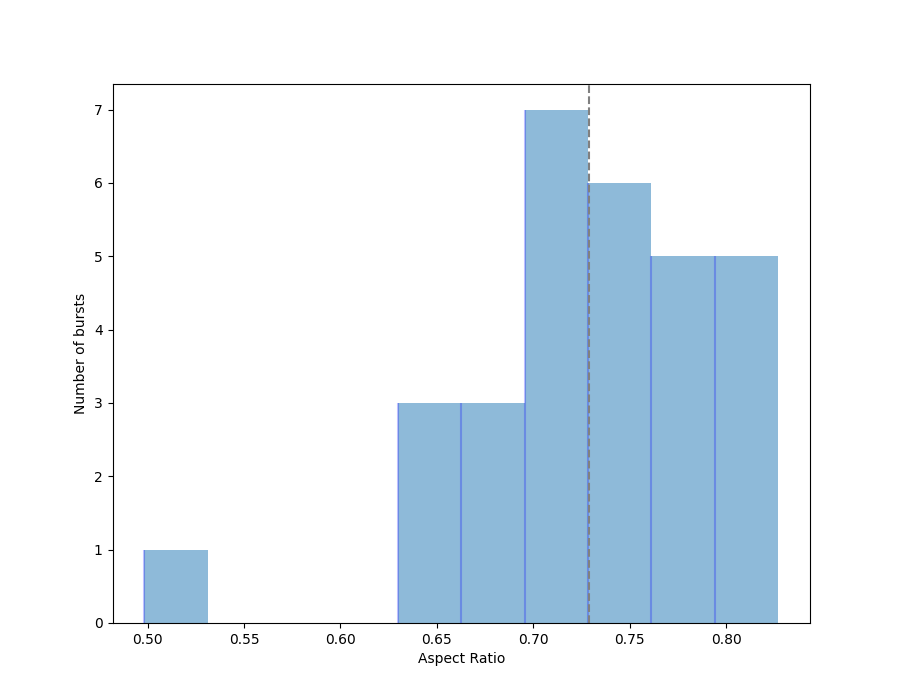
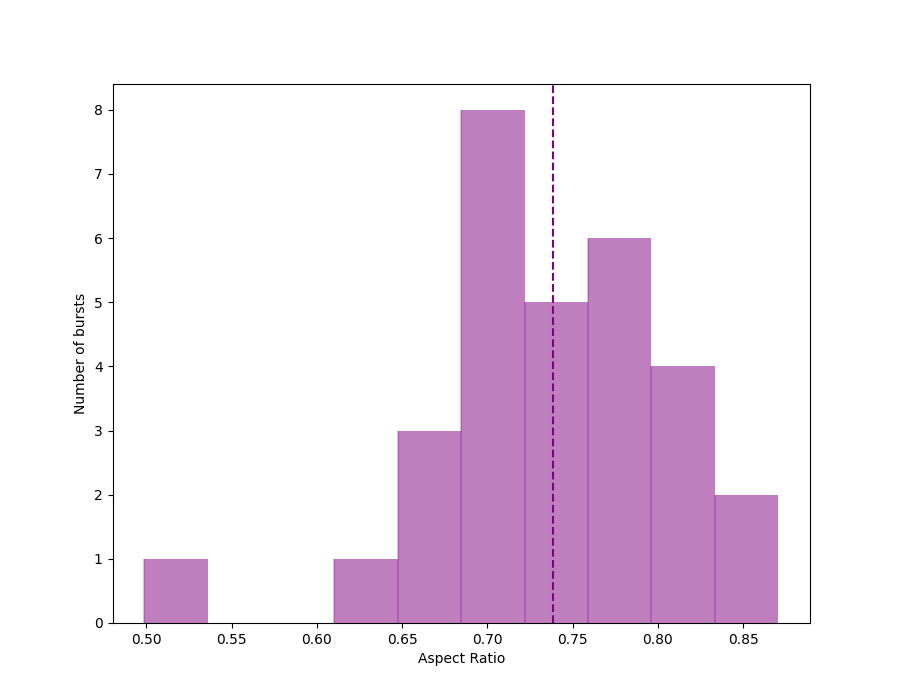
more useful discussion in wc3

diff --git a/5/observations_vs_theory.tex b/5/observations_vs_theory.tex
@@ -2,7 +2,7 @@
 \doublespacing
 \chapter{The intrinsic sizes of Type III radio bursts and comparison to recent simulations.}
 \label{chap:observations_vs_theory}
-Recent developments in the modelling of radio waves in a turbulent corona have made predictions about source sizes that have not yet been qualitatively compared to interferometric observations. Scattering of radio waves off of density inhomogeneities in the solar corona is considered to be the dominant cause of the size and shape of radio bursts. By understanding scattering, the turbulent nature of processes that generate density inhomogeneities can be studied. Turbulence in the corona can give insight into how energy is transferred from large scale phenomena down to the microscales resulting in the million degree Kelvin temperatures that have puzzled solar physicists for decades. New models of radio wave scattering, therefore, are the first step to solving fundamental physical problems in the solar corona. However, unless the models agree with observations, their use is limited at best and as such, comparisons between models and observations are crucial. In this chapter I utilise the direct visibility fitting method described in Chapter \ref{chap:measuring_source_sizes} and apply it to 30 Type III radio bursts. It is found that these bursts have a mean size along the major and minor axis of FWHM\textsubscript{x} = 16.35 arcmin and FWHM\textsubscript{y} = 11.86 arcmin respectively. No trend of source size with respect to helioprojective angle is found, which is in direct contrast to predictions from modelling if the intrinsic size of a burst is a point source and the degree of anisotropy is high $\alpha \sim 0.3$. This study suggests that although many are in agreement, further exploration of the parameters of scattering simulations are necessary before they can be used to predict the nature of coronal density inhomogeneities.
+Recent developments in the modelling of radio waves in a turbulent corona have made predictions about source sizes that have not yet been qualitatively compared to interferometric observations. Scattering of radio waves off of density inhomogeneities in the solar corona is considered to be the dominant cause of the size and shape of radio bursts. By understanding scattering, the turbulent nature of processes that generate density inhomogeneities can be studied. Turbulence in the corona can give insight into how energy is transferred from large scale phenomena down to the microscales resulting in the million degree Kelvin temperatures that have puzzled solar physicists for decades. New models of radio wave scattering, therefore, are the first step to solving fundamental physical problems in the solar corona. However, unless the models agree with observations, their use is limited at best and as such, comparisons between models and observations are crucial. In this chapter I utilise the direct visibility fitting method described in Chapter \ref{chap:measuring_source_sizes} and apply it to 30 Type III radio bursts. It is found that these bursts have a mean size along the major and minor axis of FWHM\textsubscript{x} = 16.27 arcmin and FWHM\textsubscript{y} = 11.96 arcmin respectively. No trend of source size with respect to helioprojective angle is found, which is in direct contrast to predictions from modelling if the intrinsic size of a burst is a point source and the degree of anisotropy is high $\alpha \sim 0.3$. This study suggests that although many are in agreement, further exploration of the parameters of scattering simulations are necessary before they can be used to predict the nature of coronal density inhomogeneities.
 
 \section{Introduction}
 \label{sec:obsvtheory_intro}
@@ -21,7 +21,7 @@ During the period 04 April 2019 to 14 April 2019 a Type III radio noise storm oc
 \begin{figure}[ht]
 \centering
 \includegraphics[width=\columnwidth]{aia193_ar_evolve.png}
-\caption[Evolution of active region 12738 as it revolves around the disk.]{Evolution of active region 12738 as it revolves around the disk. Images are in the 193 \AA \ passband of AIA showing hot material in the solar corona. It is expected that Type III bursts should be centred above the active region.}
+\caption[Evolution of active region 12738 as it revolves around the disk.]{Evolution of active region 12738 as it revolves around the disk. Images are in the 193 \AA \ passband of AIA showing hot material in the solar corona. It is expected that Type III bursts should be centred above the active region. The left panel shows the sun on the first day of the observation where active region 12738 has not yet rotated onto disk. The middle panel shows the active region on the solar limb and is the first day where the active region is classified. The right panel shows the active region closer to the centre of the disk. }
 \label{fig:ar_evolve}
 \end{figure}
 
@@ -128,7 +128,7 @@ Burst Time & $I_0$  & $x_0$ & $y_0$  & FWHM\textsubscript{x} & FWHM\textsubscrip
 %\bottomrule
 
 
-The size of each burst, is plotted against the distance from the disk centre in the x and y direction in Figure \ref{fig:fwhm_comp}. There is no obvious trend towards bigger/smaller bursts with increasing distance from disk centre and, most strikingly, in direct contrast to the prediction by \cite{Kontar2019} there is no trend in the aspect ratio of the bursts, which is expected to trend towards 1 near disk centre and $< 1$ near the limb. Figure \ref{fig:fwhm_hist} shows a histogram of FWHM\textsubscript{x} and FWHM\textsubscript{y}in the range of 6 to 20 arcmins. The mean size of the bursts is indicated by a vertical grey dashed line and is $11.86$ arcmin for FWHM\textsubscript{x} and $16.35$ arcmin for FWHM\textsubscript{y}. The mean aspect ratio of the bursts is $\sim 0.73$.
+The size of each burst, is plotted against the distance from the disk centre in the x and y direction in Figure \ref{fig:fwhm_comp}. There is no obvious trend towards bigger/smaller bursts with increasing distance from disk centre and, most strikingly, in direct contrast to the prediction by \cite{Kontar2019} there is no trend in the aspect ratio of the bursts, which is expected to trend towards 1 near disk centre and $< 1$ near the limb. Figure \ref{fig:fwhm_hist} shows a histogram of FWHM\textsubscript{x} and FWHM\textsubscript{y}in the range of 6 to 20 arcmins. The mean size of the bursts is indicated by a vertical grey dashed line and is $11.96$ arcmin for FWHM\textsubscript{x} and $16.27$ arcmin for FWHM\textsubscript{y}. The mean aspect ratio of the bursts is $\sim 0.74$.
 
 \begin{figure}[ht]
 \centering
@@ -140,26 +140,38 @@ The size of each burst, is plotted against the distance from the disk centre in 
 \begin{figure}[ht]
 \centering
 \includegraphics[width=\columnwidth]{burst_fwhm_histogram.png}
-\caption[Histogram of type III burst sizes.]{Histogram of type III burst sizes. Bins are 1 arcmin wide and the vertical grey dashed lines indicate the mean value for FWHM\textsubscript{x} and FWHM\textsubscript{y}.}
+\caption[Histogram of type III burst sizes.]{Histogram of type III burst sizes. Bins are 1 arcmin wide and the vertical dashed lines indicate the mean value for FWHM\textsubscript{x} (blue) and FWHM\textsubscript{y} (red).}
 \label{fig:fwhm_hist}
 \end{figure}
 
 \begin{figure}[ht]
 \centering
 \includegraphics[width=\columnwidth]{burst_fwhm_ratio_histogram.png}
-\caption[Histogram of type III burst aspect ratios.]{Histogram of type III burst aspect ratios. The vertical grey dashed line indicate the mean value for the aspect ratio FWHM\textsubscript{x}/FWHM\textsubscript{y}.}
+\caption[Histogram of type III burst aspect ratios.]{Histogram of type III burst aspect ratios. The vertical purple dashed line indicates the mean value for the aspect ratio FWHM\textsubscript{x}/FWHM\textsubscript{y}.}
 \label{fig:fwhm_ratio_hist}
 \end{figure}
 
+The relative angle of each burst i.e. the angle between the minor axis of the burst and a line from its centre to (0,0) in helioprojective coordinates, is plotted as a histogram in Figure \ref{fig:rel_ang_hist}. These are peaked in the $-20^\circ - 0^\circ$ bin and have a mean of $-18.33^\circ$.
+
+\begin{figure}[ht]
+\centering
+\includegraphics[width=\columnwidth]{burst_relative_angle_histogram.png}
+\caption[Histogram of type III burst relative angles.]{Histogram of type III burst relative angles. The vertical green dashed line indicates the mean value for the angle between the minor axis of the burst and a line joining its centre to (0,0).}
+\label{fig:rel_ang_hist}
+\end{figure}
 
 \section{Discussion}
 \label{sec:obsvtheory_discussion}
-The observed source sizes of Type III bursts are largely consistent with previous observations at similar frequencies in both interferometric and tied-array observations \citep{Kontar2017, Zhang2020}. In particular, the mean of the size in the major and minor axes is in agreement a previous measurement using the visibility fitting method \citep{Murphy2021}. The large sources sizes have been explained by \cite{Kontar2019} as being due to scattering off of anisotropic density inhomogeneities in the solar corona. As well as this, all 30 of the fitted bursts have an aspect ratio (defined above) of less than 1 which is suggestive of preferential scattering in a particular direction, \citep{Anantharamaiah1994, Bastian1994} although a more thorough analysis of the local magnetic field line direction would be necessary to confirm this, a similar finding was made by \cite{Murphy2021}. 
+The observed source sizes of Type III bursts are largely consistent with previous observations at similar frequencies in both interferometric and tied-array observations \citep{Kontar2017, Zhang2020}. In particular, the mean of the size in the major and minor axes is in agreement a previous measurement using the visibility fitting method \citep{Murphy2021}. As well as this, all 30 of the fitted bursts have an aspect ratio (defined above) of less than 1, which is suggestive of preferential scattering in a particular direction \citep{Anantharamaiah1994, Bastian1994}. The peaked distribution of relative angles in Figure \ref{fig:rel_ang_hist} is further evidence for alignment along a preferred direction. If this direction were radial one would expect a peak around $0^\circ$ however here a mean value of $-18.33^\circ$ is observed. A thorough examination of the magnetic field structure of the active region could determine whether the bursts are well aligned perpendicular to the magnetic field lines as has been observed in the solar wind \citep{Anantharamaiah1994, SasikumarRaja2016}.
 
-There is one major deviation between the model of scattering through anisotropic density fluctuations in a spherically symmetric corona and these results. \cite{Kontar2019} predict that, for a point source, the aspect ratio of a radio burst should decrease with increasing heliocentric angle, i.e. distance away from the disk centre along the solar equator. However, as shown in Figure \ref{fig:fwhm_comp}, no such trend is evident in the data. The simplest, and perhaps most appropriate, answer to why this is the case is mentioned in the discussion of \cite{Kontar2019}. Since their work only analyses the path of photons from a point source, it is possible that Type III (and other) radio bursts have an intrinsic source size. The total observed size then can be considered as the intrinsic size and the size due to scattering of a point source added in quadrature FWHM\textsubscript{total} = (FWHM\textsuperscript{2}\textsubscript{intrinsic} + FWHM\textsuperscript{2}\textsubscript{scattering})$^{1/2}$. Therefore, no trend in source sizes could suggest an intrinsic size greater than the size due to scattering. An alternative explanation could be that the anisotropy is much less than \cite{Kontar2019} suggest, perhaps having a value closer to $\alpha = 0.5$.
+There is one major deviation between the model of scattering through anisotropic density fluctuations in a spherically symmetric corona and these results. \cite{Kontar2019} predict that, for a point source, the aspect ratio of a radio burst should decrease with increasing heliocentric angle, i.e. distance away from the disk centre along the solar equator. However, as shown in Figure \ref{fig:fwhm_comp}, no such trend is evident in the data.  The simplest, and perhaps most appropriate, answer to why this is the case is mentioned in the discussion of \cite{Kontar2019}. Since their work only analyses the path of photons from a point source, it is possible that Type III (and other) radio bursts have an intrinsic source size. The total observed size then can be considered as the intrinsic size and the size due to scattering of a point source added in quadrature FWHM\textsubscript{total} = (FWHM\textsuperscript{2}\textsubscript{intrinsic} + FWHM\textsuperscript{2}\textsubscript{scattering})$^{1/2}$. Therefore, no trend in source sizes could suggest an intrinsic size greater than the size due to scattering. An alternative explanation could be that the anisotropy is much less than \cite{Kontar2019} suggest, perhaps having a value closer to $\alpha = 0.5$. 
+
+The histogram of burst sizes in Figure \ref{fig:fwhm_hist} shows that the minor size of the bursts are peaked around the mean whereas the major size shows no peak. It stands to reason that the source size in the minor direction undergoes less scattering, therefore retaining its intrinsic size, than in the major direction where the size distribution is almost random.
 
 Perhaps a more damning indictment for all scattering models comes when one relaxes the assumption of a spherically symmetric solar corona that is constant in time.  If, as is widely accepted, radio burst generation is concentrated in open magnetic field lines above the active region seen in Figure \ref{fig:ar_evolve} then the spectrum of density inhomogeneities is sure to change as the active region evolves. The time scale for this change is clearly less than the order of a few days, otherwise the trend in aspect ratio should be observed in Figure \ref{fig:fwhm_comp}. A lower limit on this time scale is more elusive. Bursts observed over the course of one hour on a given day all share a similar size, orientation and aspect ratio which gives a lower limit of at least one hour. Thus it is reasonable to assume that the power spectrum of density inhomogeneities is constant on the order of a few hours but not for time scales over a number of days. The exact change to the power spectrum during this time remains unknown but is undoubtedly linked to magnetic flux emergence in the active region and it is likely that the assumption of constant $\varepsilon$ is also incorrect and that either the level r.m.s fluctuations change or the actual electron density of the emitting region changes.
 
+It is a fair criticism that absolute x positions in the range 0 - 1000 arcsec and absolute y positions in the range 0 - 200 arcsec are under sampled compared to the dense cluster of bursts observed around -1500 arcsec, 750 arcsec. The reason for this discrepancy, while not justifying it, is because of poor calibration of the interferometric visibilities as the radio noise storm became more intense. This coincided with the active region rotating to the centre of the solar disk and thus poor sampling in this region. That said, I think the discussion above still stands and I'll tell you why. Repeating the above analysis with bursts fitted even though there is poor calibration returns much the same result although with greater scatter and error, as one might expect. Therefore, even though the bursts shown in this chapter may not fully sample the space, they are properly representative of the overall picture.
+
 \section{Conclusion}
-In this chapter I outlined the development of scattering models for radio waves in the solar corona from seminal works to modern day advancements. I also stated the importance that comparisons between these models and contemporary observations. I then detail the observation of hundreds of Type III radio bursts during a radio noise storm over the period 04 April 2019 to 14 April 2019. Using LOFAR interferometric visibilities at $\sim 30$ MHz and a method similar to \cite{Murphy2021} I fit 30 of the calibrated bursts to determine their size and shape. I find that Type III radio bursts have a mean size in the minor and major axis of $11.86$ arcmin for and $16.35$ arcmin respectively and a mean aspect ratio of 0.73. No trend in aspect ratio with respect to burst location is evident in the observations and as such, I attribute this to the intrinsic size of Type III radio bursts being greater than the size due to scattering. Using the mean values achieved as a typical intrinsic size agrees well with previous observations with LOFAR in both interferometric and tied-array images at similar frequencies.
+In this chapter I outlined the development of scattering models for radio waves in the solar corona from seminal works to modern day advancements. I also stated the importance that comparisons between these models and contemporary observations. I then detail the observation of hundreds of Type III radio bursts during a radio noise storm over the period 04 April 2019 to 14 April 2019. Using LOFAR interferometric visibilities at $\sim 30$ MHz and a method similar to \cite{Murphy2021} I fit 30 of the calibrated bursts to determine their size and shape. I find that Type III radio bursts have a mean size in the minor and major axis of $11.96$ arcmin for and $16.27$ arcmin respectively and a mean aspect ratio of 0.74. No trend in aspect ratio with respect to burst location is evident in the observations and as such, I attribute this to the intrinsic size of Type III radio bursts being greater than the size due to scattering. The relative angle between the minor axis of each burst and a radial line from the centre of the sun to its centre has a mean value of $-18.33^\circ$ and indicates preferential orientation, probably to the local magnetic field lines. Using the mean values achieved as a typical intrinsic size agrees well with previous observations with LOFAR in both interferometric and tied-array images at similar frequencies.
 
